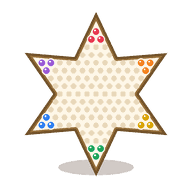
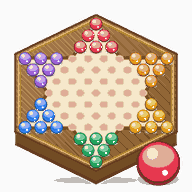
feat(跳棋): 棋盤雙指縮放 + 重畫首頁圖示 (v1.181.0)
起因不是 bug:十五頁的 viewport 都寫了 user-scalable=no,瀏覽器原生的雙指縮放整頁
都用不了,而十四個遊戲裡只有五子棋自己做了 pinch。使用者三支手機裡縮得動的那一支
(Z Fold 7)是開了 Chrome「強制啟用縮放」或切到桌面版網站才蓋過去的 —— 能縮的那支
才是意外。要三台一致只能自己做。

- 縮放走 .tq-board 的 transform,刻意不動 --tq-cell:那一格一改,121 個洞 + 最多
  60 顆棋要全部重排,而棋子的 transform 是動畫每一幀在寫的 → 兩件事一起發生就是抖。
  z 疊在 fitBoard() 之上 → z=1 的手感與 v1.180.2 一模一樣(拖不動、tx/ty 恆為 0)。
- 縮放鈕貼底橫排,不可以照抄五子棋的直排:這一頁 z=1 時盤面剛好放得下、一格都不能
  平移,被鈕蓋住的洞就是永遠點不到 —— 390px 手機上直排正好蓋住右下那個星尖(368,320)。
- 拖過盤面之後那一次 click 要吞掉(不然手指放開會順便選走一顆棋);判準是「盤面有沒有
  超出舞台」而不是 z>1,極矮視窗下 z=1 也要拖得動(touch-action:none 之後 overflow
  那條保險捲不動了,由拖曳接手)。
- 首頁圖示重畫:舊版是正投影的平面幾何圖,跟手繪那十一張擺一起一眼看得出是另一套。
  新版斜俯視 + 木盤厚度 + 六色玻璃彈珠 + 右下一顆前景彈珠。星刻意畫 K=3 而不是遊戲裡
  的 K=4 —— 那顆星的六個尖其實是彩色棋子自己排出來的,K=2 排不出三角形、K=4 縮到
  首頁卡的 46px 會糊成一片灰。

測試:t-tq-solo-e2e 86 項(新增 F2 節縮放)、t-tq-e2e 66 項、t-big-consist 120 項、
t-topbar-fit 22 項、t-zfold-fit 84 項、test-tq-rules 115 項全綠;
診斷頁 ?shot=fit 仍是 cellSet 單值(盤面沒跳階);mut-tq.js 19 條全殺
(順手補強了「動畫絕對過期」那一條 —— 它原本在 rAF 正常的情況下量,殺不掉突變)。

diff --git a/js/tiaoqi/board.js b/js/tiaoqi/board.js
@@ -271,7 +271,10 @@ const TQB = (function(){
     let c = Math.floor(Math.min(byW, byH));
     if(c < CELL_MIN) c = CELL_MIN;
     if(c > CELL_MAX) c = CELL_MAX;
-    if(c === cell) return;
+    /* ★ 舞台真的變了(轉向 / 摺疊機展開 / 切「大 / 小」)→ 使用者自己的縮放與平移要夾回範圍內。
+       ⚠ 這一句不能只寫在函式尾巴:下一行的 `c === cell` 也會跳出去,而「舞台變了、
+         但一格的邊長取整之後沒變」正是最常見的那一種(舞台差幾 px 就會走這條)。 */
+    if(c === cell){ clampView(); applyView(); return; }
     cell = c;
     board.style.setProperty("--tq-cell", c + "px");
     /* ⚠ 托盤的寬高都不是整數格 —— 這裡刻意**兩個都不取整**:
@@ -282,6 +285,132 @@ const TQB = (function(){
     board.style.width = (c * TRAY_W).toFixed(2) + "px";
     board.style.height = (c * TRAY_H).toFixed(2) + "px";
     if(lastPaint) placeAll(lastPaint);
+    clampView(); applyView();
+  }
+
+  /* ==========================================================================
+     二之一、★ 縮放 / 平移(v1.181.0,使用者:「三支手機只有一支縮得動棋盤」)
+     ──────────────────────────────────────────────────────────────────────────
+       ⚠⚠ 起因不是 bug:十五個頁面的 viewport 都寫了 `user-scalable=no`,
+         **瀏覽器原生的雙指縮放整頁都不能用**。使用者那支縮得動的手機是開了
+         Chrome 的「強制啟用縮放」(或切到桌面版網站)才蓋過去的 —— 那是意外,
+         不是功能,所以三支手機的行為才會不一樣。要縮放只能自己做(同五子棋)。
+
+       ★★★ 縮放走 `.tq-board` 的 transform,**刻意不動 `--tq-cell`**。兩個理由:
+         ① `--tq-cell` 一改,121 個洞 + 最多 60 顆棋的 left/top/width/height 全部重排 ——
+            而**棋子的 transform 是動畫每一幀在寫的**(紅線 15),兩件事一起發生就是抖。
+         ② transform 不觸發 reflow → 手指拖著縮放才跟得上。
+       ★ 所以 z 是疊在 fitBoard() 那個大小**之上**的倍率:z=1 就是「整盤剛好放得下」,
+         也因此 **z=1 時的操作手感與 v1.180.2 完全一樣**(拖不動、tx/ty 夾完恆為 0)。
+
+       ⚠ clamp 用的是 `board.offsetWidth`(**layout 尺寸**,不含 transform)——
+         改用 getBoundingClientRect() 會量到縮放**後**的寬,自己乘自己會發散。
+       ⚠ 舞台的捲軸是隱形的(見 styles.src.css 的 .tq-stage)→ 放大後 transform 溢出
+         不會冒出捲軸、也就不會吃掉 clientWidth → **不會回到 v1.180.2 那個震盪**(紅線 18)。
+     ========================================================================== */
+  const ZMAX = 3;                      // 最大倍率(再大就只剩三四個洞在畫面上)
+  const TAP_SLOP = 8;                  // 位移小於這麼多 px 仍算「點一下」而不是拖曳
+  let z = 1, tx = 0, ty = 0;           // 倍率 / 平移(px,相對「置中」的偏移量)
+  /* ★ 這一次手勢有沒有真的拖動過 —— 拖過就要把隨後那一次 click 吞掉,
+     不然「拖著看盤面」放開的瞬間會順便選走一顆棋。
+     ⚠ 它在每一次新的 pointerdown 歸零,而 click 一定排在 pointerup 之後、
+       下一次 pointerdown 之前 → 不會有殘留。 */
+  let panned = false;
+
+  function applyView(){
+    if(!board) return;
+    board.style.transform = (z === 1 && !tx && !ty) ? ""
+      : "translate(" + tx.toFixed(1) + "px," + ty.toFixed(1) + "px) scale(" + z.toFixed(4) + ")";
+    syncZoomBtns();
+  }
+  // 盤面現在有沒有超出舞台(超出才拖得動)
+  function panRoom(){
+    if(!board || !stage) return { x: 0, y: 0 };
+    return { x: Math.max(0, (board.offsetWidth  * z - stage.clientWidth)  / 2),
+             y: Math.max(0, (board.offsetHeight * z - stage.clientHeight) / 2) };
+  }
+  function clampView(){
+    const r = panRoom();
+    tx = Math.min(r.x, Math.max(-r.x, tx));
+    ty = Math.min(r.y, Math.max(-r.y, ty));
+  }
+  /* 以「相對舞台中心的 (ax,ay)」為錨縮放到 nz —— 錨點底下的那個洞留在原地 */
+  function zoomTo(nz, ax, ay){
+    nz = Math.max(1, Math.min(ZMAX, nz));
+    if(ax == null){ ax = 0; ay = 0; }
+    const bx = (ax - tx) / z, by = (ay - ty) / z;
+    z = nz; tx = ax - bx * z; ty = ay - by * z;
+    clampView(); applyView();
+  }
+  function zoomReset(){ z = 1; tx = 0; ty = 0; applyView(); }
+  function syncZoomBtns(){
+    const zi = $("tqZoomIn"), zo = $("tqZoomOut");
+    if(zi) zi.disabled = z >= ZMAX - 1e-3;
+    if(zo) zo.disabled = z <= 1 + 1e-3;
+  }
+
+  function bindZoom(){
+    if(!stage) return;
+    const pts = new Map();             // pointerId -> {x,y}
+    let drag = null, pinch = null;
+    const dist = (a, b) => Math.hypot(a.x - b.x, a.y - b.y);
+    // 螢幕座標 → 相對舞台中心(★ 用 rect 算,舞台就算被捲過也不會偏)
+    function rel(x, y){
+      const rc = stage.getBoundingClientRect();
+      return { x: x - (rc.left + rc.width / 2), y: y - (rc.top + rc.height / 2) };
+    }
+    stage.addEventListener("pointerdown", e => {
+      // 三顆縮放鈕疊在舞台右下角,pointerdown 會冒泡到這裡 —— 沒擋掉就會變成「拖盤面」
+      if(e.target.closest(".tq-zoom")) return;
+      pts.set(e.pointerId, { x: e.clientX, y: e.clientY });
+      if(pts.size === 1){
+        drag = { x: e.clientX, y: e.clientY, tx, ty };
+        panned = false;
+      }else if(pts.size === 2){
+        const [a, b] = [...pts.values()], m = rel((a.x + b.x) / 2, (a.y + b.y) / 2);
+        pinch = { d: dist(a, b), z: z, ax: m.x, ay: m.y };
+        panned = true;                 // 兩根手指一定不是「點一下」
+      }
+    });
+    stage.addEventListener("pointermove", e => {
+      if(!pts.has(e.pointerId)) return;
+      pts.set(e.pointerId, { x: e.clientX, y: e.clientY });
+      if(pts.size >= 2 && pinch){
+        const [a, b] = [...pts.values()], d = dist(a, b);
+        if(pinch.d > 0) zoomTo(pinch.z * (d / pinch.d), pinch.ax, pinch.ay);
+        return;
+      }
+      /* ⚠ 只有「盤面真的超出舞台」才拖得動。判準刻意不是 `z > 1`:
+         舞台極矮時(fitBoard 的間距有 16px 下限)盤面在 z=1 就已經比舞台高 ——
+         那正是 .tq-stage 那條 overflow:auto 本來在擋的情形,而 touch-action:none
+         之後捲不動了,只能由這裡接手。
+         ★ 反過來說,盤面放得下時 panRoom() 是 0,0 → panned 永遠不會變 true
+           → 點擊完全不受影響(與 v1.180.2 同手感)。 */
+      if(!drag) return;
+      const room = panRoom();
+      if(!room.x && !room.y) return;
+      const dx = e.clientX - drag.x, dy = e.clientY - drag.y;
+      if(!panned && Math.hypot(dx, dy) > TAP_SLOP) panned = true;
+      if(panned){ tx = drag.tx + dx; ty = drag.ty + dy; clampView(); applyView(); }
+    });
+    function endPointer(e){
+      pts.delete(e.pointerId);
+      if(pts.size < 2) pinch = null;
+      if(pts.size === 0) drag = null;
+    }
+    stage.addEventListener("pointerup", endPointer);
+    stage.addEventListener("pointercancel", endPointer);
+    // 桌機:滾輪以指標為錨縮放
+    stage.addEventListener("wheel", e => {
+      e.preventDefault();
+      const m = rel(e.clientX, e.clientY);
+      zoomTo(z * (e.deltaY < 0 ? 1.12 : 1 / 1.12), m.x, m.y);
+    }, { passive: false });
+    const zi = $("tqZoomIn"), zo = $("tqZoomOut"), zf = $("tqZoomFit");
+    if(zi) zi.addEventListener("click", () => zoomTo(z * 1.45));
+    if(zo) zo.addEventListener("click", () => zoomTo(z / 1.45));
+    if(zf) zf.addEventListener("click", zoomReset);
+    syncZoomBtns();
   }
 
   /* ==========================================================================
@@ -616,11 +745,15 @@ const TQB = (function(){
     /* 點擊一律綁在盤面上(洞與棋子都是動態產生的)。
        ⚠ 棋子疊在洞上面 → 先問棋子,再問洞。 */
     board.addEventListener("click", e => {
+      /* ⚠ 剛剛那一下是「拖盤面 / 雙指縮放」,不是點擊 —— 不吞掉的話手指放開的
+         瞬間會順便選走一顆棋(見 panned 的註解)。 */
+      if(panned) return;
       const pc = e.target.closest(".tq-pc");
       if(pc && cb.onPiece){ cb.onPiece(+pc.dataset.seat, +pc.dataset.i); return; }
       const hole = e.target.closest(".tq-hole");
       if(hole && cb.onHole) cb.onHole(+hole.dataset.id);
     });
+    bindZoom();
     let rt = null;
     window.addEventListener("resize", () => {
       if(rt) clearTimeout(rt);
@@ -632,6 +765,7 @@ const TQB = (function(){
   function reset(){
     stopFlight();
     stopCd();
+    zoomReset();            // 換一局就回到整盤(不然上一局放大的視角會帶進新局)
     shownKey = ""; lastPaint = null;
     if(board){
       pieceEls.forEach(r => r.forEach(el => el.remove()));
@@ -647,7 +781,10 @@ const TQB = (function(){
   return {
     mount, render, renderActs, fitBoard, reset, resultHTML, drama,
     animMs, stopCd, SFX,
+    zoomReset,
     cell: () => cell,
+    /* 給 e2e / 診斷頁用:目前的縮放倍率與平移量 */
+    _view: () => ({ z: z, tx: tx, ty: ty }),
     /* 給 e2e 用:畫面上「畫到哪一個局面」——★ 對帳心跳靠它(見 adapter 第四條)。
        ⚠ 回的是**畫面**的狀態,不是真相;兩者不同就是漏畫了。 */
     _shown: () => lastPaint ? lastPaint.map(r => r.slice()) : null,

diff --git a/styles.src.css b/styles.src.css
@@ -8465,10 +8465,39 @@ body.m16-big .mj-room .row:has(> .tools-docked){padding-right:0}
        **它會自己震盪下去**,而且只有桌機(有實體捲軸的平台)看得到。
      ⚠ 這是「量的對象會被自己的量測結果改變」那一類 bug —— 加多大的死區都沒用
        (一次跳 15px),只能讓捲軸不再佔版面。保險本身要留著:捲得動、只是看不到捲軸。 */
+  /* ★★ touch-action:none 是**雙指縮放的必要條件**(v1.181.0)——
+       沒有它,兩指一撐瀏覽器會先把手勢拿去做「捲舞台」,pointermove 收不到第二根手指;
+       單指拖曳也會被當成捲頁。
+     ⚠ 代價是那條 overflow:auto 的保險**捲不動了**(極矮視窗盤面比舞台高的情形)——
+       改由 board.js 的拖曳接手:panRoom() 判的是「盤面有沒有超出舞台」而不是「z>1」,
+       所以 z=1 但溢出時照樣拖得動。overflow 本身留著(捲軸仍然隱形)。 */
   .tq-stage{flex:1 1 auto;min-height:0;width:100%;position:relative;z-index:0;
             display:flex;align-items:center;justify-content:center;
-            overflow:auto;scrollbar-width:none}
+            overflow:auto;scrollbar-width:none;touch-action:none}
   .tq-stage::-webkit-scrollbar{width:0;height:0}
+
+  /* 縮放列:浮在舞台右下角。
+     ⚠⚠ position:absolute 有兩個理由,少一個都會出事:
+       ① .tq-stage 是 flex 置中的容器 —— 參與佈局就把盤面擠歪了。
+       ② 那一格**正是 fitBoard() 量的容器**(紅線 18):任何會改變它
+          clientWidth/Height 的東西都會讓盤面在對局中途自己跳一階。
+     ★★★ 這一組是**橫排**,與五子棋的 .gmk-zoom(直排)刻意不同 ——
+       這一頁 z=1 時**盤面是不能平移的**(剛好放得下),被鈕蓋住的洞就是永遠點不到。
+       而盤面幾乎填滿舞台:390px 手機上直排的三顆佔 y 319~439,
+       右下那個星尖正好落在 (368, 320) → **那一家最外面那顆棋直接被蓋住**。
+       六邊形的底是**尖的**、左右兩側是空白 → 貼著底邊橫排就完全避得開
+       (390px 手機上鈕在 x 290~398,而盤面在那個高度只到 x=265)。
+       ⚠ 有測試守這件事(t-tq-solo-e2e F2 節「整盤時縮放鈕一個洞都沒蓋住」)。 */
+  .tq-zoom{position:absolute;right:6px;bottom:6px;z-index:3;display:flex;gap:6px}
+  .tq-zoom button{width:36px;height:36px;border:1px solid var(--panel-line);border-radius:12px;
+    background:rgba(0,0,0,.28);color:var(--text);font-family:'Fredoka',sans-serif;font-weight:700;
+    font-size:17px;line-height:1;cursor:pointer;display:grid;place-items:center;backdrop-filter:blur(6px)}
+  .tq-zoom button:active{transform:scale(.9)}
+  .tq-zoom button:disabled{opacity:.35;cursor:default}
+  :root[data-theme="bubblegum"] .tq-zoom button{background:rgba(255,255,255,.55)}
+  @media (max-height:560px){
+    .tq-zoom button{width:32px;height:32px;font-size:15px}
+  }
   /* ★★★ 這一列的高度是**寫死的**,不是 min-height(v1.180.2,使用者:「盤面一直跳來跳去」)。
      ⚠⚠ 它是 fitBoard() 那條尺寸鏈的一環:`盤面能有多高 = .tq-play − .tq-acts` ——
        只要這一列會長高,盤面就會跟著縮一階(一階 ≈ 14px 寬,很明顯)。
@@ -8487,7 +8516,10 @@ body.m16-big .mj-room .row:has(> .tools-docked){padding-right:0}
          多一個看得見的矩形殼。外陰影改掛在 SVG 上(drop-shadow 跟著形狀走)。
      ⚠ 舊註解說的「不要用 clip-path 去切一個星」仍然成立,而且做法就是現在這樣:
        星形是**格線與凹槽路徑自己長出來的**,沒有任何一層在裁切。 */
-  .tq-board{position:relative;--tq-cell:22px;flex:none}
+  /* ⚠ .tq-board 的 transform 由 board.js 的 applyView() 在寫(縮放 / 平移,v1.181.0)——
+     **這裡不要放任何 transform**,寫了會被 JS 蓋掉、看起來像沒生效。
+     transform-origin 明寫成正中央:整套 clamp 的算式(panRoom)就是照這個原點推的。 */
+  .tq-board{position:relative;--tq-cell:22px;flex:none;transform-origin:50% 50%}
   .tq-board > *{position:absolute;box-sizing:border-box}
 
   /* ---------- 木托盤(SVG,建盤面時畫一次)----------

diff --git a/styles.css b/styles.css
@@ -1,5 +1,5 @@
 /*! styles.css —— 這是**產生檔**,改這裡會被下一次 build 蓋掉。
-    真相在 styles.src.css(sha256 7cbadcd581466679d0014fceac24bafc88f5476cd8167b3b71dd11afb481d7fe)
+    真相在 styles.src.css(sha256 d0613b07db0335093e0982296efe997f73856586030d7477e764ef124944cfdd)
     改樣式:改 styles.src.css → node tools/build-css.js
     為什麼要剝註解、為什麼產生檔沿用這個檔名:notes/13-CSS與版面.md */
   :root{color-scheme:only light}
@@ -3909,11 +3909,21 @@ body.m16-big .mj-room .row:has(> .tools-docked){padding-right:0}
            display:flex;flex-direction:column;align-items:center;gap:6px}
   .tq-stage{flex:1 1 auto;min-height:0;width:100%;position:relative;z-index:0;
             display:flex;align-items:center;justify-content:center;
-            overflow:auto;scrollbar-width:none}
+            overflow:auto;scrollbar-width:none;touch-action:none}
   .tq-stage::-webkit-scrollbar{width:0;height:0}
+  .tq-zoom{position:absolute;right:6px;bottom:6px;z-index:3;display:flex;gap:6px}
+  .tq-zoom button{width:36px;height:36px;border:1px solid var(--panel-line);border-radius:12px;
+    background:rgba(0,0,0,.28);color:var(--text);font-family:'Fredoka',sans-serif;font-weight:700;
+    font-size:17px;line-height:1;cursor:pointer;display:grid;place-items:center;backdrop-filter:blur(6px)}
+  .tq-zoom button:active{transform:scale(.9)}
+  .tq-zoom button:disabled{opacity:.35;cursor:default}
+  :root[data-theme="bubblegum"] .tq-zoom button{background:rgba(255,255,255,.55)}
+  @media (max-height:560px){
+    .tq-zoom button{width:32px;height:32px;font-size:15px}
+  }
   .tq-acts{flex:none;height:44px;display:flex;align-items:center;justify-content:center;
            gap:12px;width:100%;position:relative}
-  .tq-board{position:relative;--tq-cell:22px;flex:none}
+  .tq-board{position:relative;--tq-cell:22px;flex:none;transform-origin:50% 50%}
   .tq-board > *{position:absolute;box-sizing:border-box}
   .tq-tray{left:0;top:0;width:100%;height:100%;pointer-events:none;overflow:visible;
            filter:drop-shadow(0 9px 16px rgba(45,24,0,.46))}

diff --git a/tiaoqi.html b/tiaoqi.html
@@ -14,8 +14,8 @@
 <link rel="icon" type="image/svg+xml" href="img/icon.svg">
 <link rel="apple-touch-icon" href="img/icon.svg">
 <title>跳棋 ｜ 單機對電腦 + 2~6 人連線</title>
-<!-- 跳棋 · v1.180.2 -->
-<meta name="version" content="1.180.2">
+<!-- 跳棋 · v1.181.0 -->
+<meta name="version" content="1.181.0">
 <!-- 外殼:沒被 app.html 包住就自己跳進去(理由見 app.html;__noshell 是 e2e 測試頁的逃生口) -->
 <script>
 if (window.top === window.self && !window.__noshell && location.protocol !== "file:")
@@ -297,6 +297,15 @@ if (window.top === window.self && !window.__noshell && location.protocol !== "fi
     <div class="tq-stage" id="tqStage">
       <!-- 121 個洞與棋子全部由 TQB 產生;尺寸由 fitBoard() 用 JS 算(不用 aspect-ratio) -->
       <div class="tq-board" id="tqBoard"></div>
+      <!-- 縮放(v1.181.0):viewport 設了 user-scalable=no → 原生雙指縮放整頁都不能用,
+           所以自己做一組(同五子棋 .gmk-zoom)。手勢在 board.js 的 bindZoom()。
+           ⚠ 一定要留在舞台**裡面**而且是 absolute:它要浮在盤面右下角,
+             又不可以參與 .tq-stage 的 flex 佈局(會把盤面擠歪)。 -->
+      <div class="tq-zoom">
+        <button type="button" id="tqZoomIn" title="放大" aria-label="放大棋盤">＋</button>
+        <button type="button" id="tqZoomFit" title="整盤" aria-label="顯示整個棋盤">⤢</button>
+        <button type="button" id="tqZoomOut" title="縮小" aria-label="縮小棋盤">－</button>
+      </div>
     </div>
     <div class="tq-acts hidden" id="tqActs"></div>
   </div>

diff --git a/blackjack.html b/blackjack.html
@@ -14,7 +14,7 @@
 <link rel="icon" type="image/svg+xml" href="img/icon.svg">
 <link rel="apple-touch-icon" href="img/icon.svg">
 <title>台式21點 ｜ 輪流當莊 · 莊家抓人 · 單機對電腦 + 2~6 人連線</title>
-<!-- 台式21點 · v1.180.2 -->
+<!-- 台式21點 · v1.181.0 -->
 <!-- ⚠ 顯示名改過兩次(21點 → 台式21點),而**資料的名字一個都沒動**:
        bj_rooms / bj_index / bjRules / bj.solo.v1 / bj.prefs.v1 / line / dragon
        —— 那些 key 已經寫在別人裝置的 DB 與 localStorage 裡(同 v1.85.0 五小龍那條)。
@@ -23,7 +23,7 @@
      ⚠⚠ 註解裡**一個字都不可以出現註解的結束標記** —— v1.87.0 真的踩到:
        那一串被當成註解結束,後面整段文字就漏到畫面最上面變成一行亂碼,
        而它**只有截圖看得出來**(DOM 量出來完全正常)。 -->
-<meta name="version" content="1.180.2">
+<meta name="version" content="1.181.0">
 <!-- 外殼:沒被 app.html 包住就自己跳進去(理由見 app.html;__noshell 是 e2e 測試頁的逃生口) -->
 <script>
 if (window.top === window.self && !window.__noshell && location.protocol !== "file:")

diff --git a/index.html b/index.html
@@ -25,8 +25,8 @@
 <!-- 標題與 manifest 的 name 一律只寫「派對遊戲」,不列舉遊戲名 ——
      每加一個遊戲就得回來接一個名字,而且分頁標籤與安裝名會愈來愈長、被截斷得更難看 -->
 <title>派對遊戲</title>
-<!-- 派對遊戲首頁(BINGO / 五子棋 / 數獨 / 麻將消消樂 / 台灣麻將 / 排七)· v1.180.2 -->
-<meta name="version" content="1.180.2">
+<!-- 派對遊戲首頁(BINGO / 五子棋 / 數獨 / 麻將消消樂 / 台灣麻將 / 排七)· v1.181.0 -->
+<meta name="version" content="1.181.0">
 <!-- 外殼:三個遊戲跑在 app.html 的滿版 iframe 裡,全螢幕才不會因為換頁被瀏覽器收掉(v1.50.0,理由見 app.html)。
      沒被包住就自己跳進去 —— 舊 QR / 書籤 / 已裝好的 PWA 圖示都會自動落進外殼,不必重發。
      ⚠ file:// 本機開不導向(opaque origin 下 iframe 的訊息通道會變得難預測,本機開發維持原樣最單純);

diff --git a/gomoku.html b/gomoku.html
@@ -16,8 +16,8 @@
 <link rel="icon" type="image/svg+xml" href="img/icon.svg">
 <link rel="apple-touch-icon" href="img/icon.svg">
 <title>五子棋 ｜ 連線對戰 · 本機對戰</title>
-<!-- 五子棋連線對戰 + 本機對戰(電腦 / 朋友) · v1.180.2 -->
-<meta name="version" content="1.180.2">
+<!-- 五子棋連線對戰 + 本機對戰(電腦 / 朋友) · v1.181.0 -->
+<meta name="version" content="1.181.0">
 <!-- 外殼:沒被 app.html 包住就自己跳進去(理由見 app.html;__noshell 是 e2e 測試頁的逃生口) -->
 <script>
 if (window.top === window.self && !window.__noshell && location.protocol !== "file:")

diff --git a/mahjong16.html b/mahjong16.html
@@ -14,8 +14,8 @@
 <link rel="icon" type="image/svg+xml" href="img/icon.svg">
 <link rel="apple-touch-icon" href="img/icon.svg">
 <title>台灣 16 張麻將 ｜ 單機對電腦 + 2~4 人連線</title>
-<!-- 台灣 16 張麻將 · v1.180.2 -->
-<meta name="version" content="1.180.2">
+<!-- 台灣 16 張麻將 · v1.181.0 -->
+<meta name="version" content="1.181.0">
 <!-- 外殼:沒被 app.html 包住就自己跳進去(理由見 app.html;__noshell 是 e2e 測試頁的逃生口) -->
 <script>
 if (window.top === window.self && !window.__noshell && location.protocol !== "file:")

diff --git a/sevens.html b/sevens.html
@@ -14,8 +14,8 @@
 <link rel="icon" type="image/svg+xml" href="img/icon.svg">
 <link rel="apple-touch-icon" href="img/icon.svg">
 <title>排七（接龍） ｜ 單機對電腦 + 2~6 人連線</title>
-<!-- 排七(接龍) · v1.180.2 -->
-<meta name="version" content="1.180.2">
+<!-- 排七(接龍) · v1.181.0 -->
+<meta name="version" content="1.181.0">
 <!-- 外殼:沒被 app.html 包住就自己跳進去(理由見 app.html;__noshell 是 e2e 測試頁的逃生口) -->
 <script>
 if (window.top === window.self && !window.__noshell && location.protocol !== "file:")

diff --git a/mahjong.html b/mahjong.html
@@ -16,8 +16,8 @@
 <link rel="icon" type="image/svg+xml" href="img/icon.svg">
 <link rel="apple-touch-icon" href="img/icon.svg">
 <title>麻將消消樂 ｜ 單機練習與連線對戰</title>
-<!-- 麻將消消樂 · v1.180.2 -->
-<meta name="version" content="1.180.2">
+<!-- 麻將消消樂 · v1.181.0 -->
+<meta name="version" content="1.181.0">
 <!-- 外殼:沒被 app.html 包住就自己跳進去(理由見 app.html;__noshell 是 e2e 測試頁的逃生口) -->
 <script>
 if (window.top === window.self && !window.__noshell && location.protocol !== "file:")

diff --git a/chengyu.html b/chengyu.html
@@ -15,8 +15,8 @@
 <link rel="icon" type="image/svg+xml" href="img/icon.svg">
 <link rel="apple-touch-icon" href="img/icon.svg">
 <title>成語接龍 ｜ 單機練習與連線對戰</title>
-<!-- 成語接龍 · v1.180.2 -->
-<meta name="version" content="1.180.2">
+<!-- 成語接龍 · v1.181.0 -->
+<meta name="version" content="1.181.0">
 <!-- 外殼:沒被 app.html 包住就自己跳進去(理由見 app.html;__noshell 是 e2e 測試頁的逃生口) -->
 <script>
 if (window.top === window.self && !window.__noshell && location.protocol !== "file:")

diff --git a/darkchess.html b/darkchess.html
@@ -14,8 +14,8 @@
 <link rel="icon" type="image/svg+xml" href="img/icon.svg">
 <link rel="apple-touch-icon" href="img/icon.svg">
 <title>象棋暗棋 ｜ 本機對戰 + 2 人連線</title>
-<!-- 象棋暗棋 · v1.180.2 -->
-<meta name="version" content="1.180.2">
+<!-- 象棋暗棋 · v1.181.0 -->
+<meta name="version" content="1.181.0">
 <!-- 外殼:沒被 app.html 包住就自己跳進去(理由見 app.html;__noshell 是 e2e 測試頁的逃生口) -->
 <script>
 if (window.top === window.self && !window.__noshell && location.protocol !== "file:")
